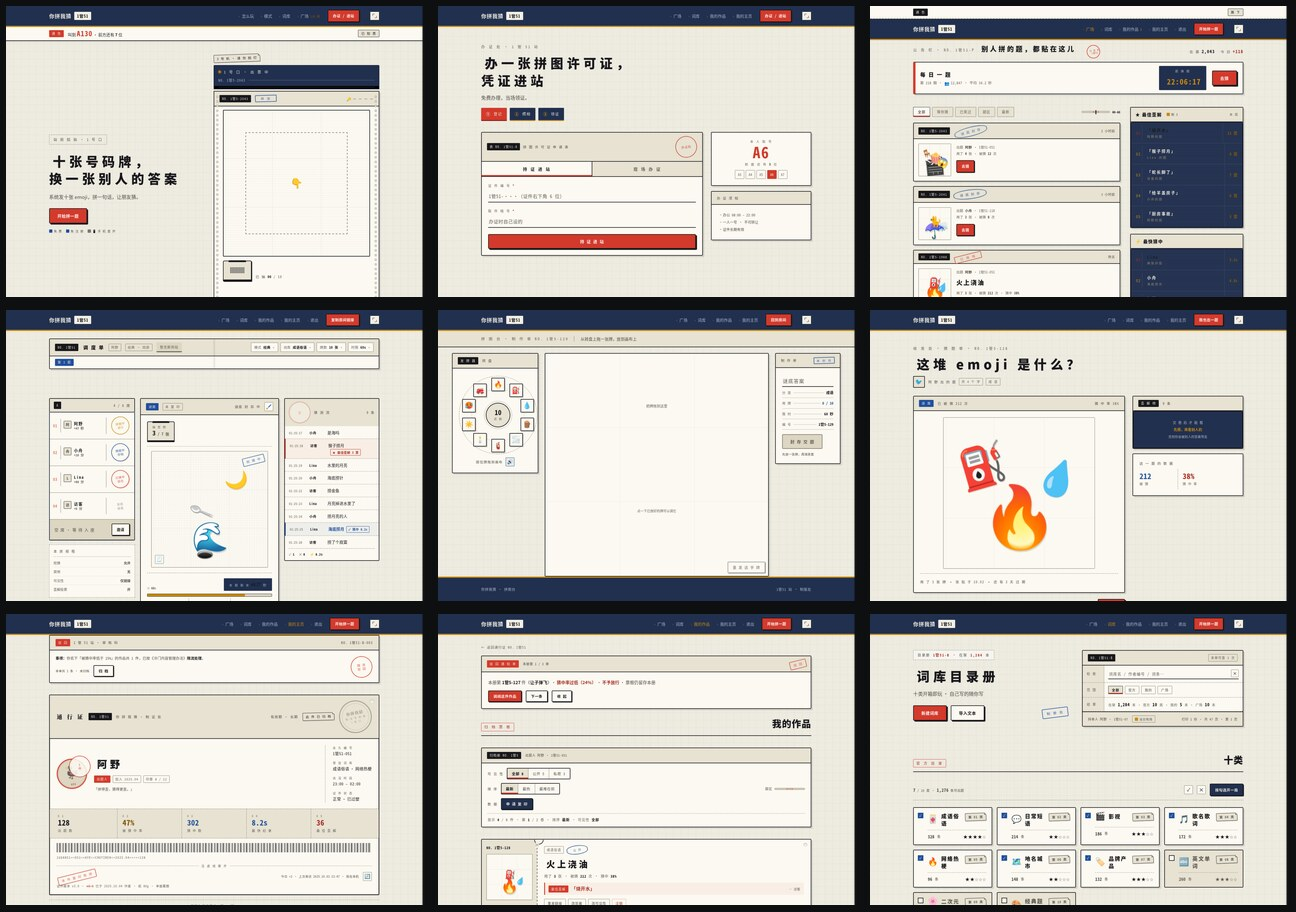
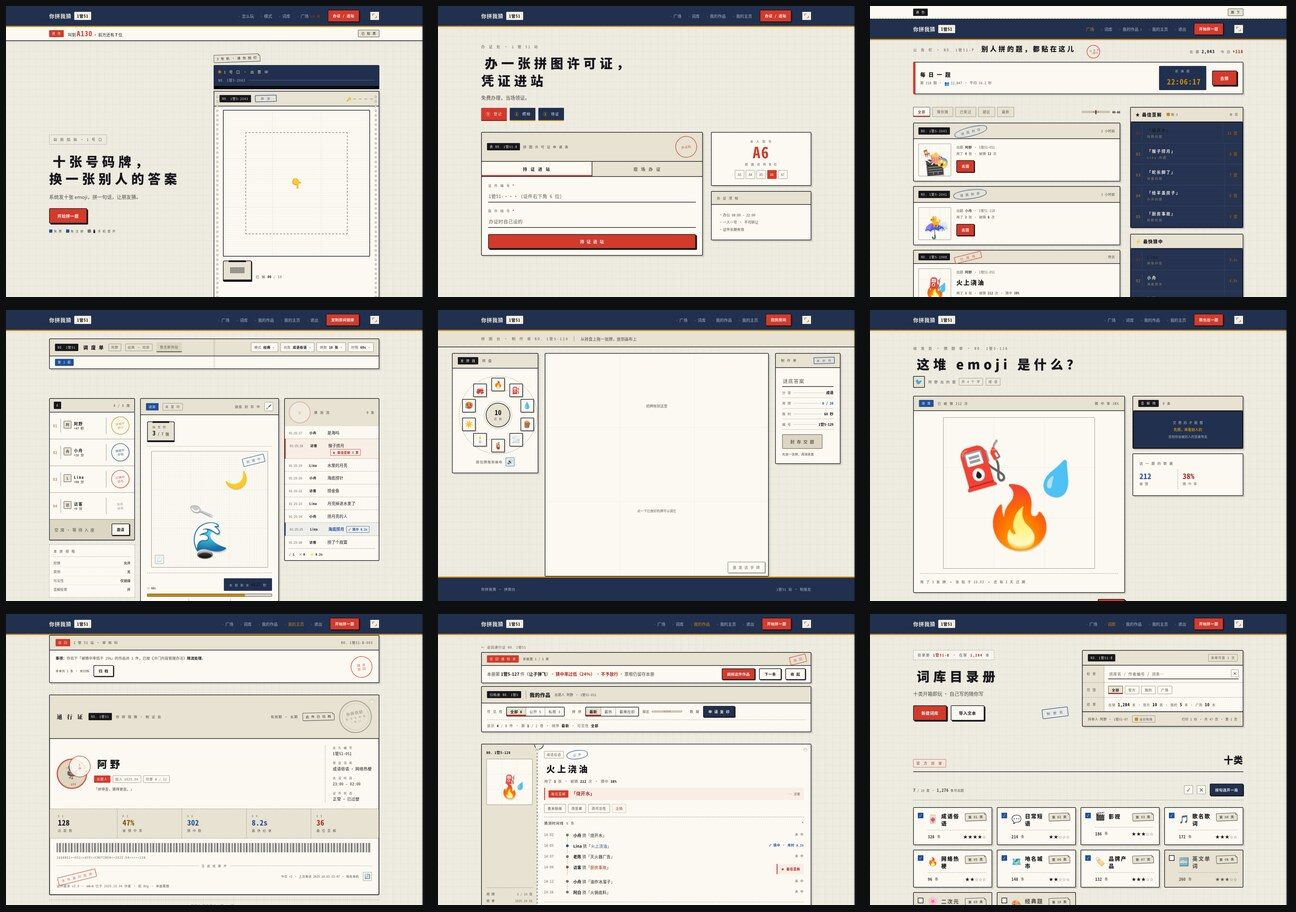
works 首条内容从屏高 88% 上移到 52%：四张纸并成两条
## 实测（改前）

  .whead 里塞了四张纸：
     y104 高20   crumb          面包屑
     y143 高183  sheet notice   驳回通知单
     y366 高70   sec-head       「我的作品」标题（h2 被 margin-left:auto 推到最右）
     y477 高274  sheet ctrl     控制面板
  #list 起点 y=791 —— **屏高 88% 处**，一屏基本看不到作品
  文档 2895px = 3.2 屏

## 改法（三步，每步都量过）

① **`.sec-head` 并进控制面板的抬头**
   那 70px 的标题纸与 274px 的筛选纸说的是同一件事，中间还隔着
   `.sec-head{margin-bottom:40px}` —— 一次回收 110px。
   这也是评委第四次点名要删的模板（全站 17 处，这页减 1）。

② **驳回通知单 183 → 106px**
   原来是「抬头 40 + 正文一段 + 三个按钮行」，改成正文与按钮并排一行。

③ **控制面板 274 → 158px**
   三行（可见性 / 排序 / 数据）各占一行而右侧大片空着，
   改成 `flex-wrap` 横向流动，底部统计行仍占整行。

## 实测（改后）

  y104 高20   crumb
  y131 高106  sheet notice
  y266 高158  sheet ctrl
  #list 起点 y=464 —— **屏高 52%**
  文档 2568px = 2.9 屏

1440x900 与 1280x800 两档都验过，无横向溢出。

## 进度

这是「全站报头压缩」的第 2 页（plaza 已做）。
剩余：index（报头 948px，105%）、login（331）、banks（321）、issues（247）、guess（199）、me（171）。

Changed region(s): [[0.3704, 0.7061, 0.6481, 1.0]]

diff --git a/app/works.html b/app/works.html
@@ -22,7 +22,7 @@
 .mla{margin-left:auto}
 
 /* ---------- 驳回通知单：一张纸 + 一枚盖歪的红章 ---------- */
-.notice{margin-bottom:22px}
+.notice{margin-bottom:10px}
 .notice .sheet-hd .stamp{margin-left:auto}
 .ntc-t{font-size:14.5px;color:var(--ink-2);line-height:1.9}
 .ntc-t b{color:var(--ink)}
@@ -32,12 +32,27 @@
 /* ---------- 调阅台：筛选 / 排序 / 复印申请 ---------- */
 .ctrl{margin-bottom:8px}
 .ctrl .sheet-hd{padding:13px 18px}
-.ctrl-bd{padding:16px 20px 14px;display:grid;gap:13px}
+.ct-t{margin:0 0 0 2px;font-size:17px;font-weight:900;letter-spacing:.05em;
+  border-left:1.5px solid var(--ink-4);padding-left:12px;white-space:nowrap}
+.whead .sheet+.sheet{margin-top:10px}
+.whead .crumb{margin-bottom:8px;display:inline-block}
+
+/* 驳回通知单：正文与三个按钮并成**一行**。
+   改前 183px（抬头 40 + 正文一段 + 按钮行），而这三件事本就该在一行里读完。 */
+.notice .sheet-bd{display:flex;align-items:center;gap:18px;padding:9px 18px 10px}
+.notice .ntc-t{flex:1 1 auto;min-width:0;margin:0}
+.notice .btn-row{margin:0;flex:0 0 auto}
+.notice .sheet-hd{padding:7px 18px}
+.ctrl-bd{padding:9px 18px 10px;display:flex;flex-wrap:wrap;gap:8px 26px;align-items:center}
+/* 三行（可见性 / 排序 / 数据）原来各占一行、右侧大片空着。
+   改成 flex-wrap 让它们横向流动 —— 780px 宽的面板一行放得下前两行。 */
+.ctrl-bd>.ctrl-row{flex:0 0 auto}
+.ctrl-bd>.ctrl-out{flex:1 1 100%}   /* 底部那行统计仍占整行 */
 .ctrl-row{display:flex;align-items:center;gap:12px;flex-wrap:wrap}
 .ctrl-row .btn{margin-left:0}
 .seg{display:inline-flex;flex-wrap:wrap;border:2px solid var(--ink);border-radius:3px;
   overflow:hidden;background:var(--paper-4)}
-.seg button{font-family:var(--mono);font-size:12.5px;letter-spacing:.06em;padding:8px 15px;
+.seg button{font-family:var(--mono);font-size:12.5px;letter-spacing:.06em;padding:5px 12px;
   border:none;border-right:1.5px solid var(--ink-4);background:var(--paper-4);color:var(--ink-2);
   cursor:pointer;transition:.14s}
 .seg button:last-child{border-right:none}
@@ -53,7 +68,7 @@
 .sweetnote .gauge{flex:none;width:104px}
 
 /* ---------- 纸质复印申请单（替代数据导出弹窗） ---------- */
-.copyform{margin-top:14px}
+.copyform{margin-top:10px}
 .copyform .sheet-hd .stamp{margin-left:auto}
 .fgrid{display:grid;grid-template-columns:1fr 1fr;gap:0 26px}
 @media(max-width:620px){.fgrid{grid-template-columns:1fr}}
@@ -273,14 +288,16 @@
       </div>
     </div>
 
-    <div class="sec-head reveal">
-      <span class="tag">归 档 票 根</span>
-      <h2>我的作品</h2>
-    </div>
-
+    <!-- 「归档票根 + 我的作品 + 控制面板」原来是**两张纸**：
+         一张只有标签与标题（且 h2 被 margin-left:auto 推到最右端），
+         另一张是筛选面板，中间隔着 .sec-head 的 40px margin-bottom。
+         实测两张加起来 70 + 40 + 274 = 384px —— 而它们说的是同一件事。
+         现在并成一条工具条：标签、标题、可见性、排序、导出同在一行。
+         这也是评委第四次点名要删的 .sec-head 模板（全站 17 处 → 此处先减 1）。 -->
     <div class="sheet ctrl reveal">
       <div class="sheet-hd">
         <span class="tag-no">归档册 NO. 1管5</span>
+        <h2 class="ct-t">我的作品</h2>
         <span class="meta">出题人 阿野 · 1管51-051</span>
       </div>
       <div class="sheet-bd ctrl-bd">
